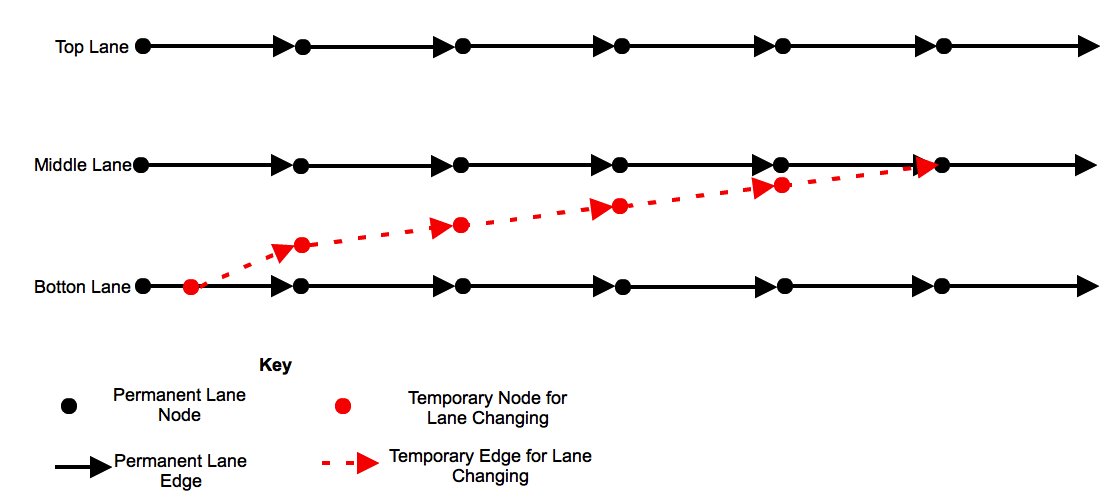
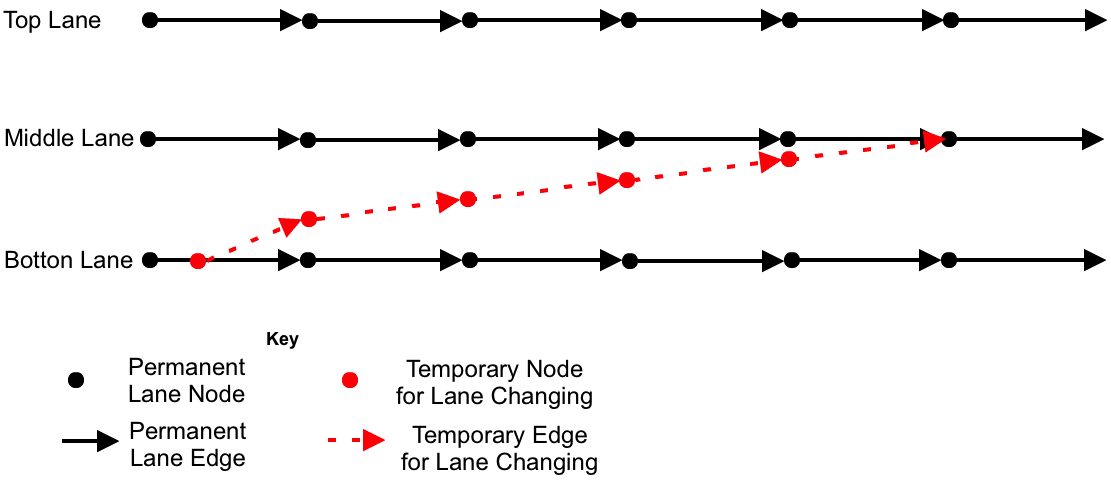
Made lanes diagram less smudgey

diff --git a/body/Model.tex b/body/Model.tex
@@ -65,7 +65,7 @@
       
       \begin{figure}
       \begin{center}
-      	\includegraphics[scale=0.5,angle=90]{images/lanes.png}
+      	\includegraphics[scale=0.55,angle=90]{images/lanes.png}
       	\caption{Representation of river as 3 lanes with a temporary path for lane changing}
       	\label{fig:model:lanes}
       \end{center}
